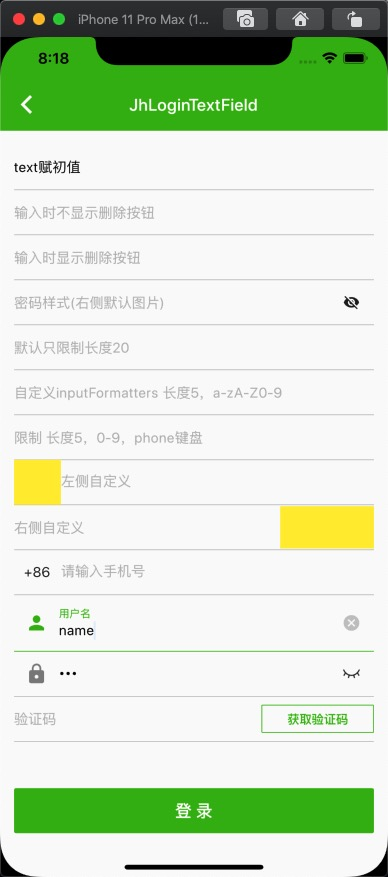
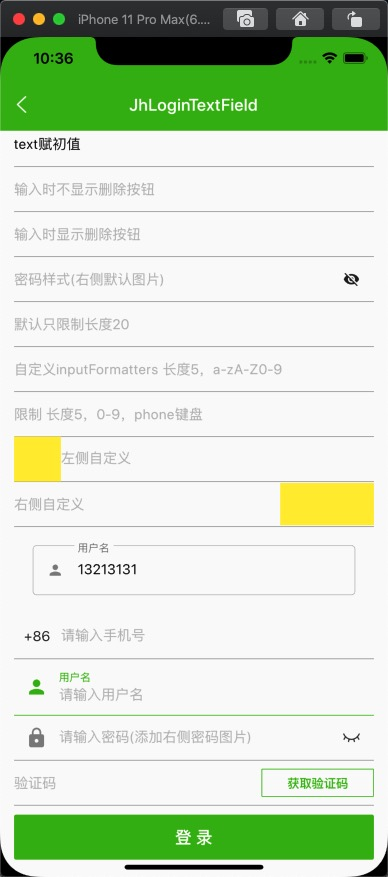
update JhLoginTextField

diff --git a/lib/JhTools/JhForm/jhLoginTextField.dart b/lib/JhTools/JhForm/jhLoginTextField.dart
@@ -31,6 +31,8 @@ class JhLoginTextField extends StatefulWidget {
   final _InputCallBack inputCallBack;
   final String pwdOpen; //自定义密码图片路径 睁眼
   final String pwdClose;//自定义密码图片路径 闭眼
+  final InputBorder border; //边框样式
+  final bool isDense; //是否紧凑显示，默认false
 
   const JhLoginTextField({
     Key key,
@@ -49,6 +51,8 @@ class JhLoginTextField extends StatefulWidget {
     this.inputCallBack,
     this.pwdOpen,
     this.pwdClose,
+    this.border,
+    this.isDense:false,
 
   }): super(key: key);
 
@@ -122,12 +126,13 @@ class _JhLoginTextFieldState extends State<JhLoginTextField> {
 //            [WhitelistingTextInputFormatter(RegExp('[0-9]'))] : [BlacklistingTextInputFormatter(RegExp('[\u4e00-\u9fa5]'))],
             inputFormatters: widget.inputFormatters!=null ?widget.inputFormatters:[LengthLimitingTextInputFormatter(widget.maxLength)],
             decoration: InputDecoration(
+              prefixIcon: widget.leftWidget,
               labelText: widget.labelText!= null ?widget.labelText: null,
               hintText:  widget.hintText,
               hintStyle: _hintTextStyle,
-              focusedBorder: UnderlineInputBorder(borderSide: BorderSide(color: Theme.of(context).primaryColor, width: 0.8)),
-              enabledBorder: UnderlineInputBorder(borderSide: BorderSide(color:  Colors.grey,width: 0.5)),
-              prefixIcon: widget.leftWidget,
+              isDense: widget.isDense,
+              enabledBorder: widget.border!=null?widget.border: UnderlineInputBorder(borderSide: BorderSide(color: Colors.grey, width: 0.8)),
+              focusedBorder: widget.border!=null?widget.border: UnderlineInputBorder(borderSide: BorderSide(color: Theme.of(context).primaryColor, width: 0.8)),
 //          suffixIcon:
             ),
             obscureText: _pwdShow,

diff --git a/lib/demoLists/form/loginTextFeldTest_page.dart b/lib/demoLists/form/loginTextFeldTest_page.dart
@@ -49,6 +49,20 @@ class _LoginTextFieldTestPageState extends State<LoginTextFieldTestPage> {
                 JhLoginTextField(hintText:'左侧自定义',
                   leftWidget: Container(color: Colors.yellow,width: 50,),),
                 JhLoginTextField(hintText:'右侧自定义',rightWidget: Container(color: Colors.yellow,width: 100,height: 45,)),
+
+                Container(
+                  padding: EdgeInsets.all(20),
+                  child: JhLoginTextField(text: _name,hintText: "请输入用户名",labelText:'用户名',
+                    leftWidget: Icon(Icons.person),isShowDeleteBtn: true,isDense: true,
+                    border: OutlineInputBorder(
+                      borderRadius: const BorderRadius.all(Radius.circular(4)),
+                      borderSide: BorderSide(width: 0.5,color: Colors.grey),
+                    ),
+
+                  ),
+                ),
+
+
                 JhLoginTextField(hintText: "请输入手机号",leftWidget: Container(width: 50,child: Center(child:Text("+86"))),keyboardType:TextInputType.phone, ),
                 JhLoginTextField(text: _name,hintText: "请输入用户名",labelText:'用户名',leftWidget: Icon(Icons.person),isShowDeleteBtn: true,
                   inputCallBack: (value) => _name=value
@@ -68,11 +82,11 @@ class _LoginTextFieldTestPageState extends State<LoginTextFieldTestPage> {
                         }
                     ),
                 ),
-                SizedBox(height: 50),
+                SizedBox(height: 10),
                 JhButton(text: "登 录",
                     onPressed:()=> _ClickOkBtn(context)
                 ),
-
+                SizedBox(height: 50),
               ],
             ),
           )

diff --git a/lib/demoLists/search/searchTest3_page.dart b/lib/demoLists/search/searchTest3_page.dart
@@ -1,6 +1,6 @@
 import 'package:flutter/material.dart';
 import 'package:jh_flutter_demo/configs/colors.dart';
-import 'package:jh_flutter_demo/JhTools/JhForm/jhTextField.dart';
+import 'package:jh_flutter_demo/JhTools/JhForm/jhLoginTextField.dart';
 
 
 class SearchTest3Page extends StatelessWidget {
@@ -26,9 +26,11 @@ class SearchTest3Page extends StatelessWidget {
           alignment: Alignment.center,
           height: 38,
 //           padding: EdgeInsets.fromLTRB(0.0, 0.0, 0.0, 0.0),
-          child: JhTextField(
+          child: JhLoginTextField(
             leftWidget: Icon(Icons.search,size: 30,),
             hintText: '请输入搜索信息',
+            isShowDeleteBtn: true,
+            isDense: true,
           ),
         ),
         actions: <Widget>[
